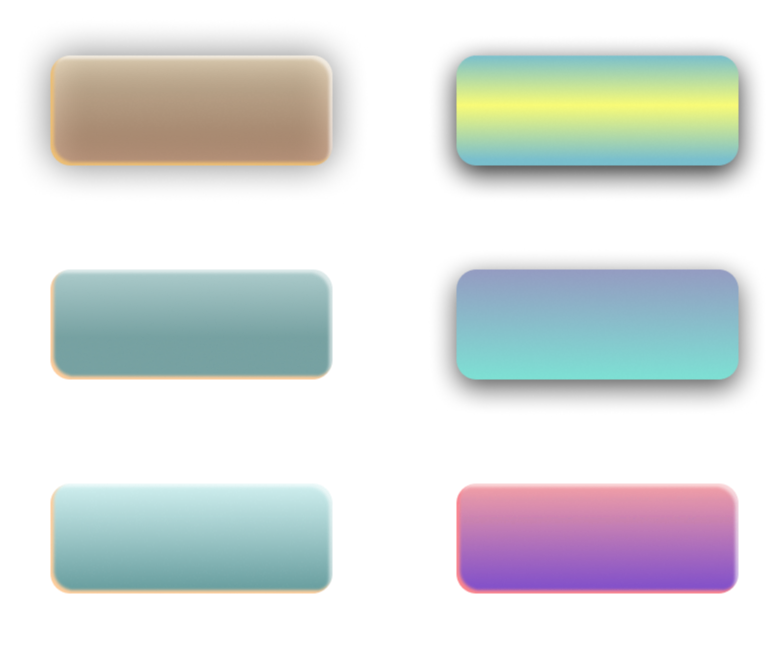
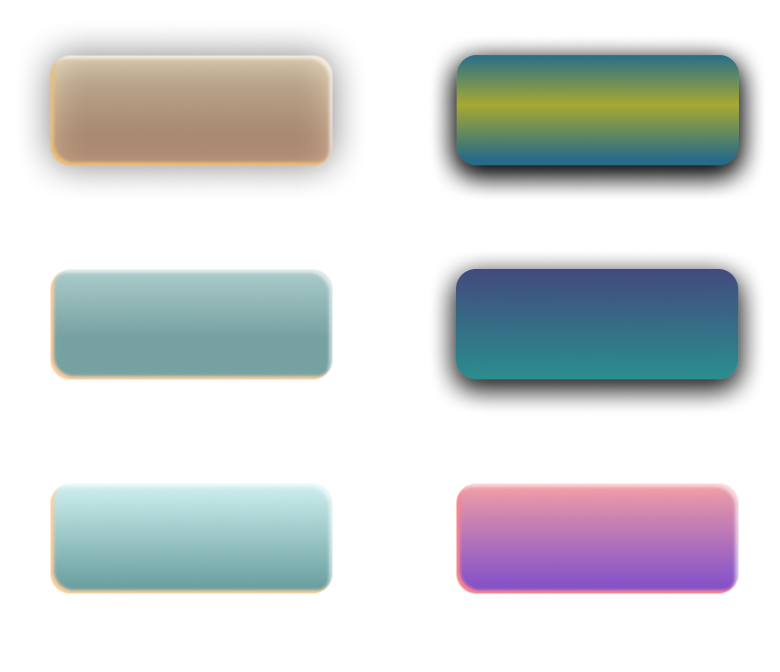
Rezerv

Changed region(s): [[0.5538, 0.0625, 0.9846, 0.2812], [0.5538, 0.375, 0.9846, 0.5938]]

diff --git a/Assets/Scripts/Game/GameThema.cs b/Assets/Scripts/Game/GameThema.cs
@@ -10,9 +10,10 @@ namespace Victorina
         [SerializeField] private PlayerData _playerData;
 
         [SerializeField] private GameObject _welcomePanel;
+        [SerializeField] private Image[] _welcomeBtns;
+        [SerializeField] private Image _moneyInfo;
 
         [SerializeField] private Image _backgroundWelcomeGameImg;
-        [SerializeField] private Image[] _welcomeBtns;
         [SerializeField] private Image _gameProgressPanel;
         [SerializeField] private Image _gamePanel;
         [SerializeField] private Image _questionPanel;
@@ -45,9 +46,6 @@ namespace Victorina
             if (_crownTuk != null)
                 _crownTuk.volume = PlayerPrefs.GetInt("Sfx");
 
-            if (!_playerData.IsTrain)
-                _welcomePanel.SetActive(true);
-
             if (PlayerPrefs.HasKey(Key))
             {
                 if (PlayerPrefs.GetInt(Key) > 0)
@@ -62,9 +60,6 @@ namespace Victorina
 
             _backgroundWelcomeGameImg.sprite = activeThema.GameWelcomePanel;
 
-            if (_gameProgressPanel)
-                _gameProgressPanel.sprite = activeThema.GameProgressPanel;
-
             _gamePanel.sprite = activeThema.GamePanel;
             _questionPanel.sprite = activeThema.QuestPanel;
 
@@ -74,9 +69,16 @@ namespace Victorina
             _gameExitPanel.sprite = activeThema.ExitPlayAndGetWinPanelBack;
             _exitBtnImg.sprite = activeThema.ExitBtn;
             _noExitBtnImg.sprite = activeThema.NoExitBtn;
-            _mainText.color = activeThema.MainExitPanelFontColor;
-            _exitText.color = activeThema.ExitBtnFontColor;
-            _noExitText.color = activeThema.NoExitBtnFontColor;
+
+            if (!_playerData.IsTrain)
+            {
+                _welcomePanel.SetActive(true);
+                _moneyInfo.color = activeThema.MoneyInfoPanelBackColor;
+                _gameProgressPanel.sprite = activeThema.GameProgressPanel;
+                _mainText.color = activeThema.MainExitPanelFontColor;
+                _exitText.color = activeThema.ExitBtnFontColor;
+                _noExitText.color = activeThema.NoExitBtnFontColor;
+            }
 
             _regulationPanel.sprite = activeThema.RegulationPanel;
             _commentPanel.color = activeThema.CommentPanelColor;

diff --git a/Assets/Scripts/PlayerData.cs b/Assets/Scripts/PlayerData.cs
@@ -13,6 +13,8 @@ namespace Victorina
     [CreateAssetMenu(fileName = "DataPlayer")]
     public class PlayerData : ScriptableObject
     {
+        public static PlayerData Instance { get; private set; }
+
         [SerializeField] internal int R2;
         [SerializeField] internal int RE;
         [SerializeField] internal int WeeklyRank;
@@ -106,18 +108,30 @@ namespace Victorina
 
             PlayFabSettings.staticSettings.TitleId = "D2AD8";
 
-            GuidID = PlayerPrefs.GetString("Id");
+            //GuidID = PlayerPrefs.GetString("Id");
 
-            PlayFabClientAPI.LoginWithCustomID(new LoginWithCustomIDRequest()
+            //PlayFabClientAPI.LoginWithCustomID(new LoginWithCustomIDRequest()
+            //{
+            //    CustomId = GuidID,
+            //    CreateAccount = false,
+            //}, success =>
+            //{
+            //    Init();
+            //    LoginComplete?.Invoke();
+
+            //}, OnFailure);
+
+            PlayFabClientAPI.LoginWithAndroidDeviceID(new LoginWithAndroidDeviceIDRequest()
             {
-                CustomId = GuidID,
-                CreateAccount = false,
-            }, success =>
+                CreateAccount = true,
+                AndroidDeviceId = SystemInfo.deviceUniqueIdentifier
+            }, result =>
             {
+                Debug.Log("Logged in");
                 Init();
                 LoginComplete?.Invoke();
-
-            }, OnFailure);
+                // Refresh available items
+            }, error => Debug.LogError(error.GenerateErrorReport()));
 
         }
 

diff --git a/Assets/Scripts/SaveLoad.cs b/Assets/Scripts/SaveLoad.cs
@@ -1,0 +1,38 @@
+using UnityEngine;
+using System.Collections;
+using System.Collections.Generic;
+using System.Runtime.Serialization.Formatters.Binary;
+using System.IO;
+
+
+namespace Victorina
+{
+    public static class SaveLoad
+    {
+        public static List<GameData> SavedGames = new List<GameData>();
+
+        public static void Save()
+        {
+            SavedGames.Add(GameData.Instance);
+            BinaryFormatter bf = new BinaryFormatter();
+            FileStream file = File.Create(Application.persistentDataPath + "/savedGames.gd");
+            bf.Serialize(file, SavedGames);
+            file.Close();
+        }
+
+
+        public static void Load()
+        {
+            if (File.Exists(Application.persistentDataPath + "/savedGames.gd"))
+            {
+                BinaryFormatter bf = new BinaryFormatter();
+                FileStream file = File.Open(Application.persistentDataPath + "/savedGames.gd", FileMode.Open);
+                SavedGames = (List<GameData>)bf.Deserialize(file);
+                file.Close();
+            }
+        }
+
+    }
+
+
+}

diff --git a/Assets/Scripts/MainMenu/MainMenuThema.cs b/Assets/Scripts/MainMenu/MainMenuThema.cs
@@ -37,6 +37,8 @@ namespace Victorina
         [SerializeField] private Image _exitPanel;
         [SerializeField] private Image _exitBtn;
         [SerializeField] private Image _noExitBtn;
+        [SerializeField] private Text _exitText;
+        [SerializeField] private Text _noExitText;
 
         [Header("Статистика")]
         [SerializeField] private Image _statisticsPanel;
@@ -89,6 +91,8 @@ namespace Victorina
             _exitPanel.sprite = activeThema.ExitWindow;
             _exitBtn.sprite = activeThema.ExitBtn;
             _noExitBtn.sprite = activeThema.NoExitBtn;
+            _exitText.color = activeThema.ExitBtnFontColor;
+            _noExitText.color = activeThema.NoExitBtnFontColor;
         }
     }
 }

diff --git a/Assets/Scripts/Razrab.cs b/Assets/Scripts/Razrab.cs
@@ -1,6 +1,5 @@
 using System;
 using System.Collections;
-using System.Collections.Generic;
 using UnityEngine;
 using UnityEngine.Networking;
 using UnityEngine.UI;
@@ -19,7 +18,7 @@ namespace Victorina
 
         private string _questionTxt;
         private string[] _answersTxt;
-        
+
 
         private const string UrlTextFile = "https://coxcombic-eliminato.000webhostapp.com/Test/";
         private const string UrlTextFile2 = "http://a0669097.xsph.ru/Victorina/";

diff --git a/Assets/Scripts/GameData.cs b/Assets/Scripts/GameData.cs
@@ -1,0 +1,15 @@
+using System.Collections;
+using System.Collections.Generic;
+using UnityEngine;
+using System.Runtime.Serialization.Formatters.Binary;
+using System.IO;
+
+
+namespace Victorina
+{
+    [System.Serializable]
+    public class GameData
+    {
+        public static GameData Instance { get; private set; }
+    }
+}

diff --git a/Assets/Resources/Thema.cs b/Assets/Resources/Thema.cs
@@ -43,6 +43,7 @@ namespace Victorina
 
         [Header("Режим игры")]
         public Sprite GameWelcomePanel;
+        public Color MoneyInfoPanelBackColor;
         public Sprite GameProgressPanel;
         public Sprite GamePanel;
         public Sprite QuestPanel;

diff --git a/Assets/Scripts/PlayFab/EnterLoading.cs b/Assets/Scripts/PlayFab/EnterLoading.cs
@@ -19,6 +19,8 @@ namespace Victorina
 
         private void Start()
         {
+
+
             _playerData.IsNewVersionApp = IsNewVersionApp();
             if (!_playerData.IsNewPlayer)
                 _playerData.Login();

diff --git a/Assets/Scripts/FontSizeController.cs b/Assets/Scripts/FontSizeController.cs
@@ -12,6 +12,7 @@ namespace Victorina
 
         private void Start()
         {
+            var temp = PlayerData.Instance.Avatar;
             StartCoroutine(SetOptimalFontSize());
         }
 

diff --git a/Assets/Scripts/Character.cs b/Assets/Scripts/Character.cs
@@ -1,0 +1,9 @@
+namespace Victorina
+{
+    [System.Serializable]
+    public class Character
+    {
+
+        public string Name { get; private set; }
+    }
+}
